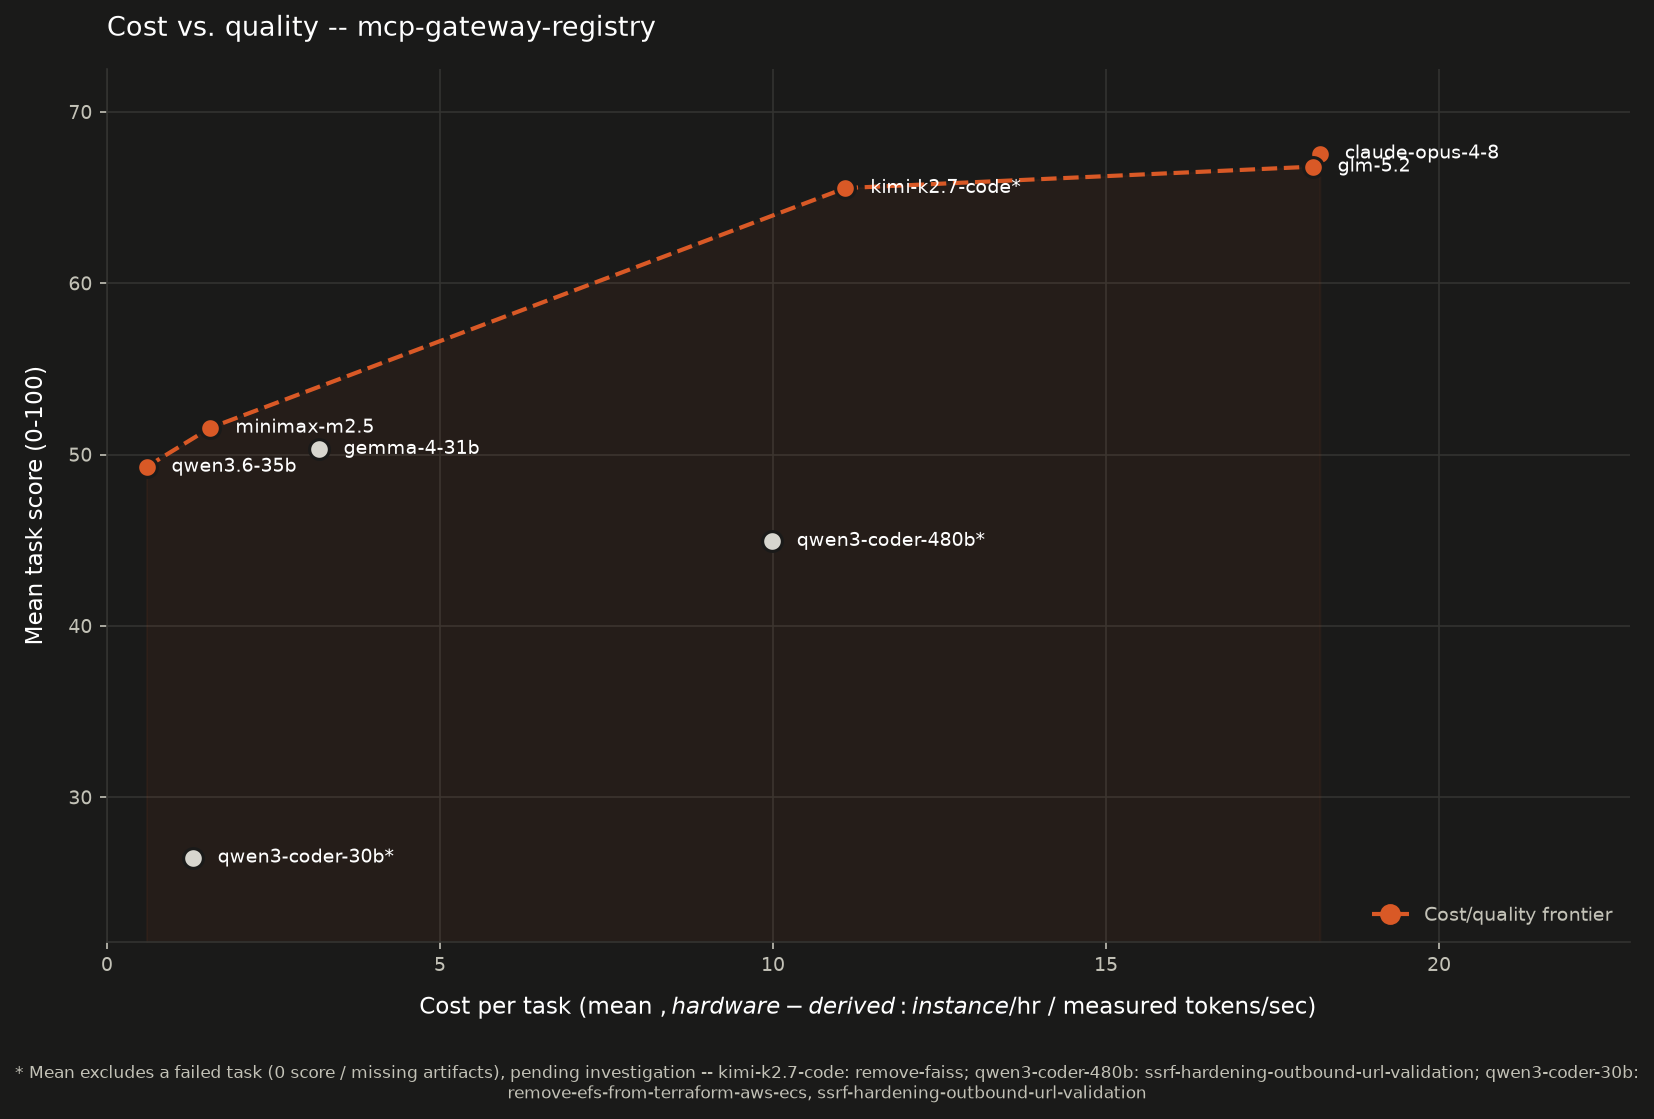
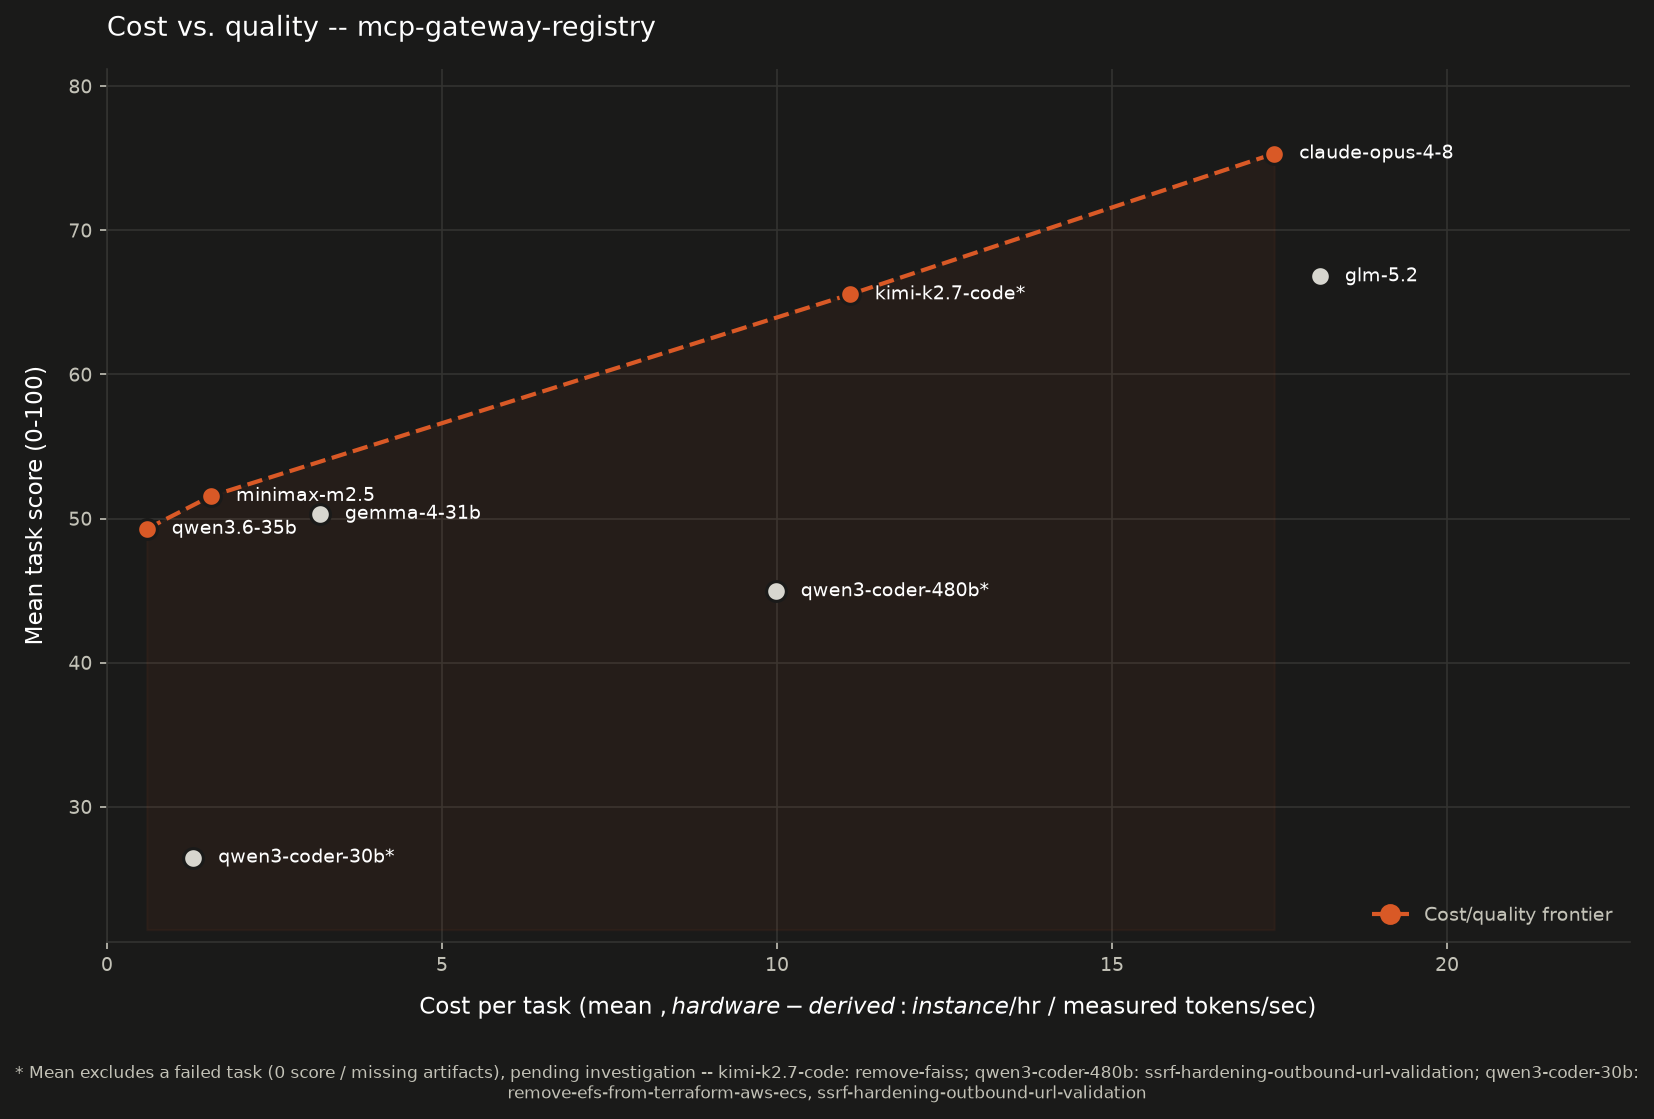
README: update Claude-Opus-4.8 to new run (mean 75.32, $17.42/task)
New Opus-4.8 numbers (5/5, no failures): mean 75.32 (was 67.56), $17.42/task
(was $18.21). Per-task: remove-faiss 69.2, remove-efs 79.6, ssrf 80.6, migrate
70.6, keycloak 76.6.

Opus now leads by ~9 points and, at a cost slightly below GLM-5.2 ($18.10),
DOMINATES it -- higher score, lower cost -- so GLM drops off the cost/quality
frontier. Updated the results table (recomputed per-row bold: Opus now wins all
5 rows), leaderboard, cost-section frontier line, footnotes 6/9, and the lead
narrative. Regenerated both chart themes (frontier now 4 models: Qwen3.6-35B ->
MiniMax-M2.5 -> Kimi -> Opus).

diff --git a/README.md b/README.md
@@ -115,12 +115,12 @@ All cells are task scores (0-100), the mean of the artifact totals per (task x m
 
 | Task | Difficulty | Claude-Opus-4.8⁹ | GLM-5.2⁶ | Kimi-K2.7-Code | MiniMax-M2.5 | Gemma-4-31B | Qwen3.6-35B | Qwen3-Coder-480B⁷ | Qwen3-Coder-30B | Qwen3-Coder-Next⁴ |
 |------|-----------|-----------------:|---------:|---------------:|-------------:|------------:|------------:|------------------:|----------------:|:-----------------:|
-| `remove-faiss` | Medium | 56.6 | **62.8** | 0.0 ⁵ | 44.2 | 49.4 | 57.6 | 45.6 | 24.4 | n/a |
-| `remove-efs-from-terraform-aws-ecs` | Medium | **78.2** | 73.8 | 70.8 | 62.0 | 60.4 | 59.0 | 55.4 | 0.0 ⁵ | n/a |
-| `ssrf-hardening-outbound-url-validation` | Medium | 69.0 | 64.6 | **72.0** | 58.2 | 49.4 | 54.6 | 0.0 ⁵ | 0.0 ⁵ | n/a |
-| `migrate-ecs-env-vars-to-secrets-manager` | High | **79.8** | 68.6 | 67.2 | 53.6 | 52.4 | 39.2 | 41.0 | 32.2 | n/a |
-| `replace-keycloak-db-password-with-rds-iam` | High | 54.2 | **64.2** | 52.2 | 39.8 | 40.0 | 36.0 | 37.8 | 22.8 | n/a |
-| **Mean (excl. failed task⁵)** | | **67.56** | 66.80 | 65.55 | 51.56 | 50.32 | 49.28 | 44.95 | 26.47 | n/a |
+| `remove-faiss` | Medium | **69.2** | 62.8 | 0.0 ⁵ | 44.2 | 49.4 | 57.6 | 45.6 | 24.4 | n/a |
+| `remove-efs-from-terraform-aws-ecs` | Medium | **79.6** | 73.8 | 70.8 | 62.0 | 60.4 | 59.0 | 55.4 | 0.0 ⁵ | n/a |
+| `ssrf-hardening-outbound-url-validation` | Medium | **80.6** | 64.6 | 72.0 | 58.2 | 49.4 | 54.6 | 0.0 ⁵ | 0.0 ⁵ | n/a |
+| `migrate-ecs-env-vars-to-secrets-manager` | High | **70.6** | 68.6 | 67.2 | 53.6 | 52.4 | 39.2 | 41.0 | 32.2 | n/a |
+| `replace-keycloak-db-password-with-rds-iam` | High | **76.6** | 64.2 | 52.2 | 39.8 | 40.0 | 36.0 | 37.8 | 22.8 | n/a |
+| **Mean (excl. failed task⁵)** | | **75.32** | 66.80 | 65.55 | 51.56 | 50.32 | 49.28 | 44.95 | 26.47 | n/a |
 
 The **Mean** row excludes any task that scored 0 -- a genuine model failure (missing artifacts), which is an unresolved anomaly rather than a quality measurement, so it is left out of the average **pending further investigation** and flagged with `⁵`. Per-task 0.0 cells are still shown so the failure is visible. Claude-Opus-4.8 / GLM-5.2 / MiniMax-M2.5 / Qwen3.6-35B / Gemma-4-31B score over all 5 tasks (no failures); Kimi over 4 (one failed), Qwen3-Coder-480B over 4, Qwen3-Coder-30B over 3 (two failed).
 
@@ -130,17 +130,17 @@ The **Mean** row excludes any task that scored 0 -- a genuine model failure (mis
 
 ⁵ **Genuine model failures, scored 0.** On these `/swe2` runs the failures are: Kimi-K2.7-Code on `remove-faiss`, Qwen3-Coder-480B on `ssrf`, and Qwen3-Coder-30B on `remove-efs` and `ssrf`. Each failed to produce a scorable artifact set (typically the model exhausted its turn budget on the implementation step without landing edits, so no `patch.diff`). The judge records a missing/empty-artifact folder as a 0 with a `MODEL FAILURE` verdict rather than dropping it. The **Mean** row excludes these tasks (over the tasks each model completed): GLM-5.2 66.80 (5/5), Kimi 65.55 (4/5), MiniMax-M2.5 51.56 (5/5), Gemma-4-31B 50.32 (5/5), Qwen3.6-35B 49.28 (5/5), Qwen3-Coder-480B 44.95 (4/5), Qwen3-Coder-30B 26.47 (3/5).
 
-⁶ **GLM-5.2 ran with more headroom than the others -- not strictly apples-to-apples.** GLM-5.2 (`zai-org/GLM-5.2-FP8`, 744B MoE / 40B active, ~750 GB FP8 weights) was served on **8x H200** at a **300K context window**. It leads on quality (66.80 over 5/5) but on the biggest, most expensive box measured (~$18/task, see the cost section). Treat cross-instance comparisons as indicative until normalized.
+⁶ **GLM-5.2 ran with more headroom than the others -- not strictly apples-to-apples.** GLM-5.2 (`zai-org/GLM-5.2-FP8`, 744B MoE / 40B active, ~750 GB FP8 weights) was served on **8x H200** at a **300K context window**. It is the top self-hosted model (66.80 over 5/5) but on the biggest, most expensive box measured (~$18/task, see the cost section). Treat cross-instance comparisons as indicative until normalized.
 
 ⁷ **Qwen3-Coder-480B intermittently fails to produce artifacts -- the failure is nondeterministic, not task-specific.** Qwen3-Coder-480B (`Qwen/Qwen3-Coder-480B-A35B-Instruct-FP8`, 480B MoE / 35B active) was served on the **8x H200** node at **TP=4** (a block-FP8 MoE sharding constraint forces TP=4, not 8 -- see [its model guide](self-hosted/vllm/models/qwen3-coder-480b.md)), 200K window. Like the smaller Qwen3-Coder-30B, it periodically explores/edits the repo instead of completing the artifact chain (or exhausts the turn cap), scoring 0 on some tasks. It is a harness-conformance instability of a coder-tuned model, not a serving or context problem.
 
-⁹ **Claude-Opus-4.8 is a Path 1 (Bedrock) result -- its cost is a real metered API bill, not hardware-derived.** `us.anthropic.claude-opus-4-8` was run through Amazon Bedrock (no self-hosting), so its **$18.21/task** is the actual token-metered charge, whereas every self-hosted model's `$/task` is `instance $/hr / measured tokens/sec` x tokens (see the cost section). They are comparable as "what you would pay," but the provenance differs. Opus tops the quality table (67.56 over 5/5) at a cost essentially tied with the most expensive self-hosted model (GLM-5.2, $18.10) -- i.e. on this benchmark the best-quality option is a frontier API model, and it is not more expensive per task than running a 744B MoE on an 8x H200 box.
+⁹ **Claude-Opus-4.8 is a Path 1 (Bedrock) result -- its cost is a real metered API bill, not hardware-derived.** `us.anthropic.claude-opus-4-8` was run through Amazon Bedrock (no self-hosting), so its **$17.42/task** is the actual token-metered charge, whereas every self-hosted model's `$/task` is `instance $/hr / measured tokens/sec` x tokens (see the cost section). They are comparable as "what you would pay," but the provenance differs. Opus tops the quality table (75.32 over 5/5) at a cost slightly *below* the most expensive self-hosted model (GLM-5.2, $18.10) -- so it **dominates** GLM here (higher score, lower cost) and anchors the top of the cost/quality frontier. On this benchmark the best-quality option is a frontier API model, and it is not more expensive per task than running a 744B MoE on an 8x H200 box.
 
 ### Cost vs. quality
 
 ![Cost vs. quality scatter: mean estimated cost per task against mean task score, for the self-hosted models, with the cost/quality frontier highlighted](docs/images/cost-quality.png)
 
-Mean cost per task (x) against mean task score (y), one point per model. For **self-hosted** models cost is **hardware-derived**: each model's blended cost per token (from its throughput sweep -- instance $/hr / measured tokens/sec, see [cost-per-task-methodology.md](self-hosted/vllm/cost-per-task-methodology.md)) times that model's *actual* input+output tokens per task, averaged over its non-failed tasks. For **Claude-Opus-4.8** (Path 1, Bedrock) cost is the **real token-metered API bill** -- comparable as spend, different in kind (footnote ⁹). The cost/quality frontier runs **Qwen3.6-35B ($0.59 / 49.28) -> MiniMax-M2.5 ($1.55 / 51.56) -> Kimi-K2.7-Code ($11.09 / 65.55) -> GLM-5.2 ($18.10 / 66.80) -> Claude-Opus-4.8 ($18.21 / 67.56)**; Gemma-4-31B ($3.18 / 50.32), Qwen3-Coder-30B ($1.29 / 26.47), and Qwen3-Coder-480B ($9.98 / 44.95) sit **below** the frontier (dominated), and Qwen3-Coder-Next is omitted (not viable on this node). A model's mean excludes any 0-score failed task, matching the table (see footnote ⁵). Regenerate from the committed run + performance summaries with `uv run scripts/plot_cost_quality.py` (add `--dark` for the dark theme) from `benchmarks/`.
+Mean cost per task (x) against mean task score (y), one point per model. For **self-hosted** models cost is **hardware-derived**: each model's blended cost per token (from its throughput sweep -- instance $/hr / measured tokens/sec, see [cost-per-task-methodology.md](self-hosted/vllm/cost-per-task-methodology.md)) times that model's *actual* input+output tokens per task, averaged over its non-failed tasks. For **Claude-Opus-4.8** (Path 1, Bedrock) cost is the **real token-metered API bill** -- comparable as spend, different in kind (footnote ⁹). The cost/quality frontier runs **Qwen3.6-35B ($0.59 / 49.28) -> MiniMax-M2.5 ($1.55 / 51.56) -> Kimi-K2.7-Code ($11.09 / 65.55) -> Claude-Opus-4.8 ($17.42 / 75.32)**; GLM-5.2 ($18.10 / 66.80) is now **dominated by Opus** (Opus scores higher at lower cost) and drops off the frontier, and Gemma-4-31B ($3.18 / 50.32), Qwen3-Coder-30B ($1.29 / 26.47), and Qwen3-Coder-480B ($9.98 / 44.95) also sit **below** the frontier; Qwen3-Coder-Next is omitted (not viable on this node). A model's mean excludes any 0-score failed task, matching the table (see footnote ⁵). Regenerate from the committed run + performance summaries with `uv run scripts/plot_cost_quality.py` (add `--dark` for the dark theme) from `benchmarks/`.
 
 ### Per-model leaderboard (so far)
 
@@ -148,7 +148,7 @@ Mean score is over the tasks each model completed (any 0-score failed task is ex
 
 | Rank | Model | Params (active) | Hardware | Mean score | $/task | Tasks scored |
 |-----:|-------|----------------|----------|-----------:|-------:|-------------:|
-| 1 | Claude-Opus-4.8⁹ | -- (Bedrock) | Amazon Bedrock (Path 1) | **67.56** | $18.21† | 5/5 |
+| 1 | Claude-Opus-4.8⁹ | -- (Bedrock) | Amazon Bedrock (Path 1) | **75.32** | $17.42† | 5/5 |
 | 2 | GLM-5.2⁶ | 744B (40B) | 8x H200 | **66.80** | $18.10 | 5/5 |
 | 3 | Kimi-K2.7-Code | 1,058.6B (MoE) | 8x H200 | **65.55** | $11.09 | 4/5 |
 | 4 | MiniMax-M2.5 | 230B (10B) | 8x H200 (TP=4) | **51.56** | $1.55 | 5/5 |
@@ -166,7 +166,7 @@ Mean score is over the tasks each model completed (any 0-score failed task is ex
 
 These are early self-hosted numbers on differing hardware; treat them as a starting point, not a final ranking. Cross-path comparisons wait until the Bedrock paths are run.
 
-- **Claude-Opus-4.8 leads on quality (67.56 over 5/5), the self-hosted GLM-5.2 is essentially level (66.80)** -- and at nearly the same cost per task ($18.21 metered API vs $18.10 hardware-derived). The headline: a frontier API model tops the table, but a 744B open-weight MoE you host yourself matches it on both quality and cost. Kimi-K2.7-Code (65.55 over 4/5) is close behind at ~$11. On this `/swe2` (design + implementation) benchmark these three are the quality ceiling and the expensive corner of the frontier.
+- **Claude-Opus-4.8 leads on quality by a clear margin (75.32 over 5/5)** -- ~9 points ahead of the best self-hosted model, GLM-5.2 (66.80), and at a *lower* cost per task ($17.42 metered API vs GLM's $18.10 hardware-derived), so it dominates GLM outright. The headline: the frontier API model both tops the table and is not more expensive than self-hosting a 744B MoE on an 8x H200 box. Kimi-K2.7-Code (65.55 over 4/5) trails at ~$11. On this `/swe2` (design + implementation) benchmark these three are the quality ceiling and the expensive corner of the frontier.
 - **Qwen3.6-35B is the value story, now with a measured price:** on one mid-range GPU node (a single g6e.12xlarge) it scores 49.28 over all 5 tasks with no failures at a **hardware-derived $0.59 per task** -- the cheapest measured, ~30x under GLM-5.2, and on the cost/quality frontier.
 - **MiniMax-M2.5 is the best quality-per-dollar in the upper half:** 51.56 over 5/5 at **$1.55/task** -- it beats the dense Gemma-4-31B ($3.18) and the much pricier Qwen3-Coder-480B ($9.98) while costing a fraction, sitting on the frontier just above Qwen3.6-35B.
 - **Cost is now measured, not estimated.** Every $/task above is `instance $/hr / measured tokens/sec` (from each model's throughput sweep) times that model's real per-task token load -- so the cost axis reflects actual serving economics on the benchmarked hardware, not a token-price guess. See [cost-per-task-methodology.md](self-hosted/vllm/cost-per-task-methodology.md).
